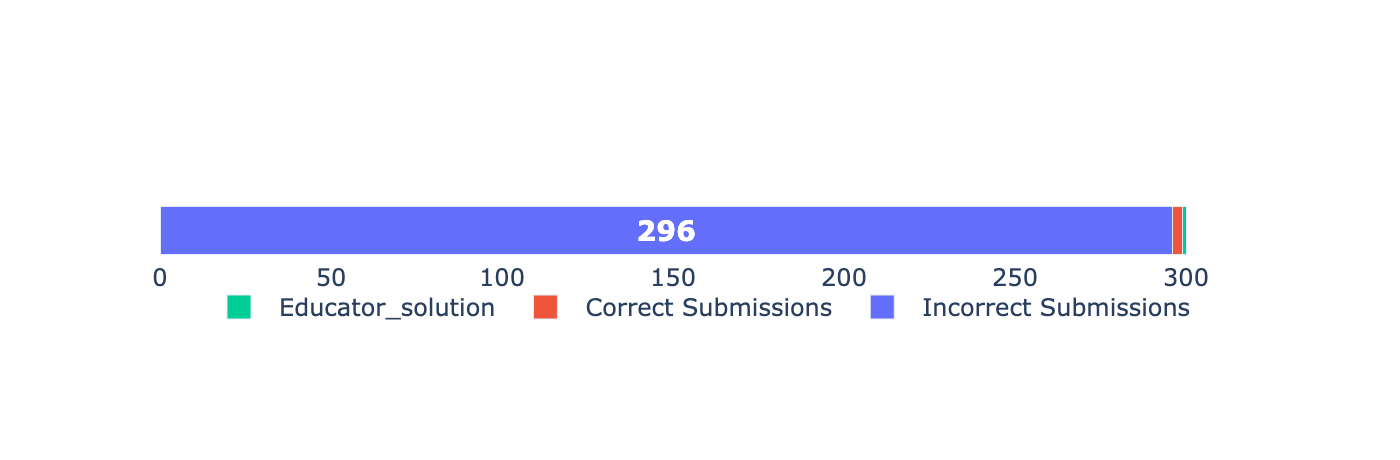
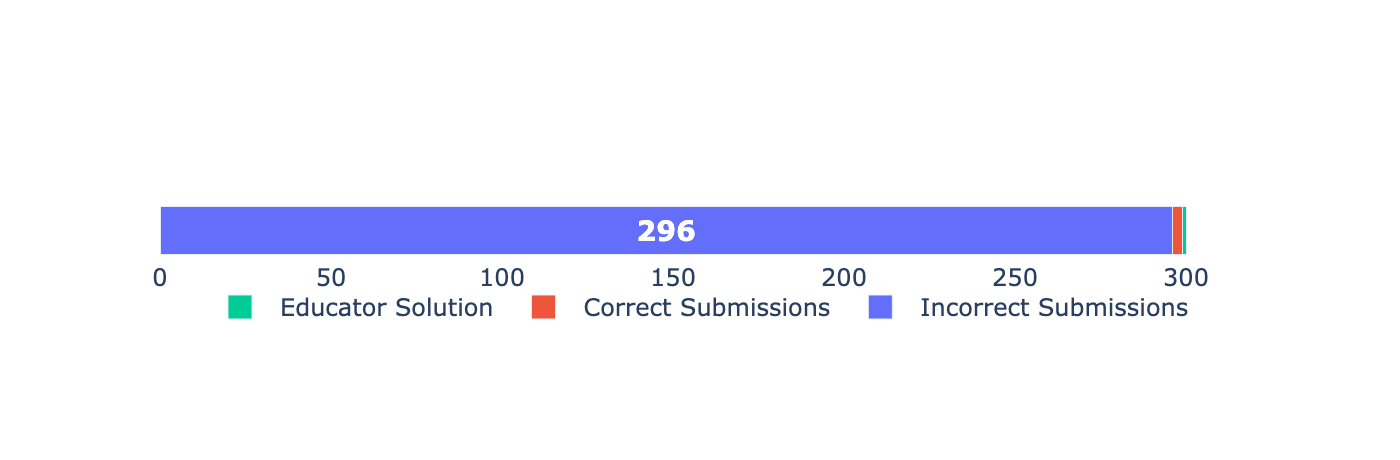
update slides figure

Changed region(s): [[0.215, 0.6391, 0.86, 0.7]]

diff --git a/src/presentation/slides.py b/src/presentation/slides.py
@@ -2,7 +2,7 @@ import plotly.graph_objects as go
 
 
 def dataset_distribution():
-    categories = ['Incorrect Submissions', 'Correct Submissions', 'Educator_solution']
+    categories = ['Incorrect Submissions', 'Correct Submissions', 'Educator Solution']
     values = [296, 3, 1]
     fig = go.Figure()
     sorted_pairs = sorted(zip(values, categories), reverse=True)
